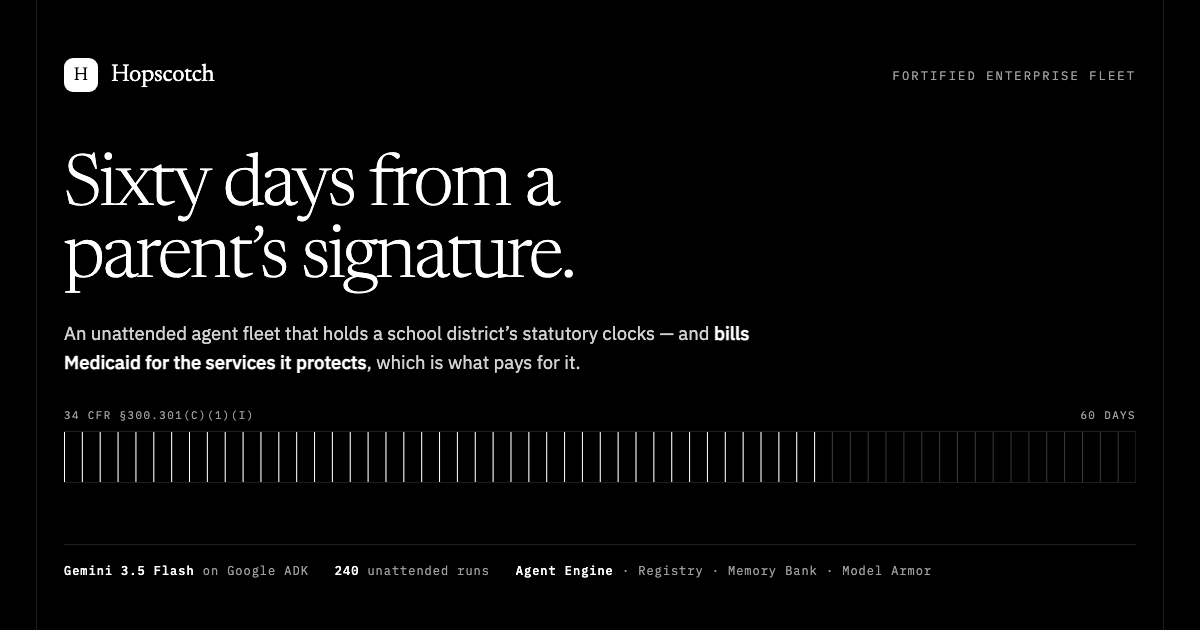
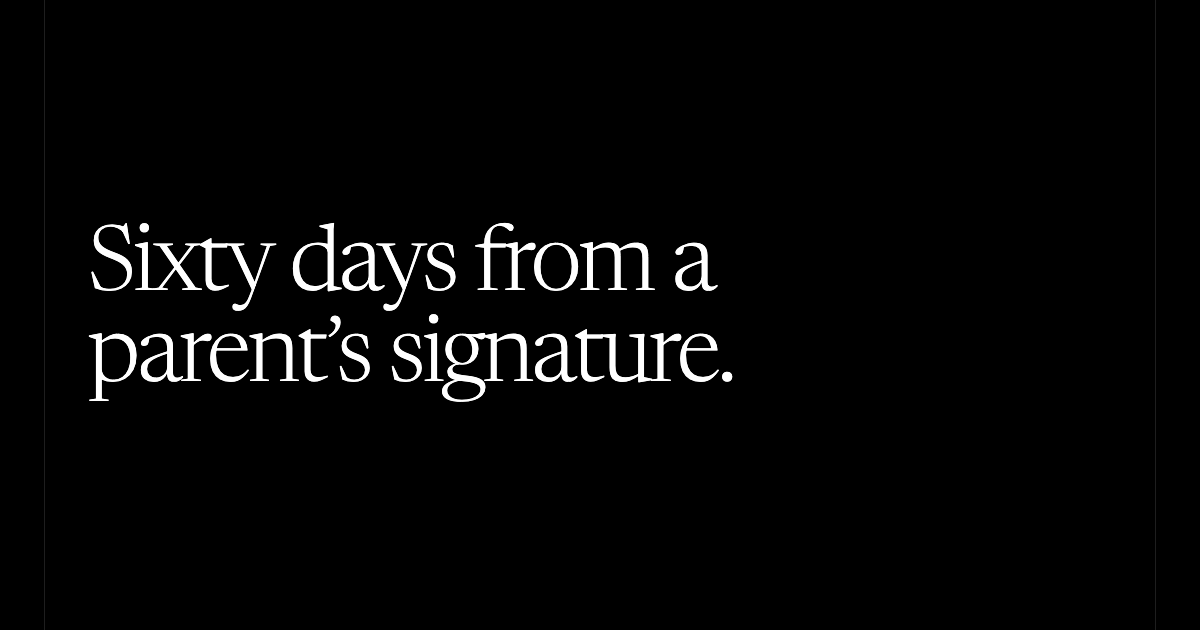
Strip the thumbnail to the headline
Everything else went: the wordmark, the sub-line, the tick strip, the stat
footer. Devpost prints the project name beside the card anyway, so repeating it
was spending the only thing a thumbnail has -- one glance -- on information the
page already carries.

Type got bigger for the room it freed. The two hairline rails stay, so the card
is recognisably from the same place as the site without competing with the
sentence.

diff --git a/site/thumbnail.html b/site/thumbnail.html
@@ -1,78 +1,28 @@
-<link rel="stylesheet" href="https://fonts.googleapis.com/css2?family=Newsreader:opsz,wght@6..72,300;6..72,400&family=IBM+Plex+Mono:wght@400;500&family=IBM+Plex+Sans:wght@400;500&display=swap">
+<link rel="stylesheet" href="https://fonts.googleapis.com/css2?family=Newsreader:opsz,wght@6..72,300&display=swap">
 <style>
   *{box-sizing:border-box;margin:0;padding:0}
   html,body{width:1200px;height:630px;overflow:hidden}
   body{
     background:#000;color:#fff;
-    font-family:"IBM Plex Sans",system-ui,sans-serif;
-    display:flex;flex-direction:column;justify-content:space-between;
-    padding:58px 64px 52px;
+    display:flex;align-items:center;
+    padding:0 88px;
     position:relative;
   }
-  /* the ruled column, carried from the product */
+  /* The ruled column, kept from the product. One quiet thing so the card is
+     recognisably from the same place, and nothing else competing with the type. */
   .rail{position:absolute;top:0;bottom:0;width:1px;background:#1E1E1E}
-  .rail.l{left:36px} .rail.r{right:36px}
+  .rail.l{left:44px} .rail.r{right:44px}
 
-  .top{display:flex;align-items:center;gap:13px}
-  .mark{width:34px;height:34px;border-radius:9px;background:#fff;color:#000;
-    display:grid;place-items:center;font-family:"Newsreader",serif;
-    font-size:1.15rem;font-weight:400}
-  .name{font-family:"Newsreader",serif;font-size:1.5rem;font-weight:400;
-    letter-spacing:-.01em}
-  .track{margin-left:auto;font-family:"IBM Plex Mono",monospace;font-size:.76rem;
-    letter-spacing:.17em;text-transform:uppercase;color:#9C9C9A}
-
-  h1{font-family:"Newsreader",serif;font-weight:300;font-size:4.4rem;
-    line-height:1.02;letter-spacing:-.025em;max-width:19ch}
-  h1 em{font-style:italic}
-
-  .sub{font-size:1.16rem;line-height:1.6;color:#D2D2D0;max-width:62ch;
-    margin-top:22px}
-  .sub b{font-weight:600;color:#fff}
-
-  /* 60 ticks: the statutory period, lit through day 43 */
-  .clockwrap{margin-top:30px}
-  .clabel{display:flex;justify-content:space-between;
-    font-family:"IBM Plex Mono",monospace;font-size:.68rem;letter-spacing:.13em;
-    text-transform:uppercase;color:#9C9C9A;margin-bottom:9px}
-  .strip{position:relative;height:52px;border-top:1px solid #1E1E1E;
-    border-bottom:1px solid #1E1E1E}
-  .strip::before{content:"";position:absolute;inset:0;
-    background-image:linear-gradient(90deg,#3A3A38 0 1px,transparent 1px);
-    background-size:calc(100% / 60) 100%}
-  .lit{position:absolute;inset:0;
-    background-image:linear-gradient(90deg,#fff 0 1px,transparent 1px);
-    background-size:calc(100% / 60) 100%;
-    clip-path:inset(0 28.4% 0 0)}
-
-  .foot{display:flex;align-items:baseline;gap:26px;
-    font-family:"IBM Plex Mono",monospace;font-size:.75rem;letter-spacing:.08em;
-    color:#9C9C9A;border-top:1px solid #1E1E1E;padding-top:18px}
-  .foot b{color:#fff;font-weight:500}
+  h1{
+    font-family:"Newsreader",ui-serif,Georgia,serif;
+    font-weight:300;
+    font-size:5.6rem;
+    line-height:1.02;
+    letter-spacing:-.028em;
+    max-width:16ch;
+  }
 </style>
 
 <div class="rail l"></div><div class="rail r"></div>
 
-<div class="top">
-  <div class="mark">H</div>
-  <div class="name">Hopscotch</div>
-  <div class="track">Fortified Enterprise Fleet</div>
-</div>
-
-<div>
-  <h1>Sixty days from a parent&rsquo;s&nbsp;signature.</h1>
-  <p class="sub">An unattended agent fleet that holds a school district&rsquo;s
-    statutory clocks &mdash; and <b>bills Medicaid for the services it
-    protects</b>, which is what pays for it.</p>
-
-  <div class="clockwrap">
-    <div class="clabel"><span>34 CFR &sect;300.301(c)(1)(i)</span><span>60 days</span></div>
-    <div class="strip"><div class="lit"></div></div>
-  </div>
-</div>
-
-<div class="foot">
-  <span><b>Gemini 3.5 Flash</b> on Google ADK</span>
-  <span><b>240</b> unattended runs</span>
-  <span><b>Agent Engine</b> &middot; Registry &middot; Memory Bank &middot; Model Armor</span>
-</div>
+<h1>Sixty days from a parent&rsquo;s&nbsp;signature.</h1>
